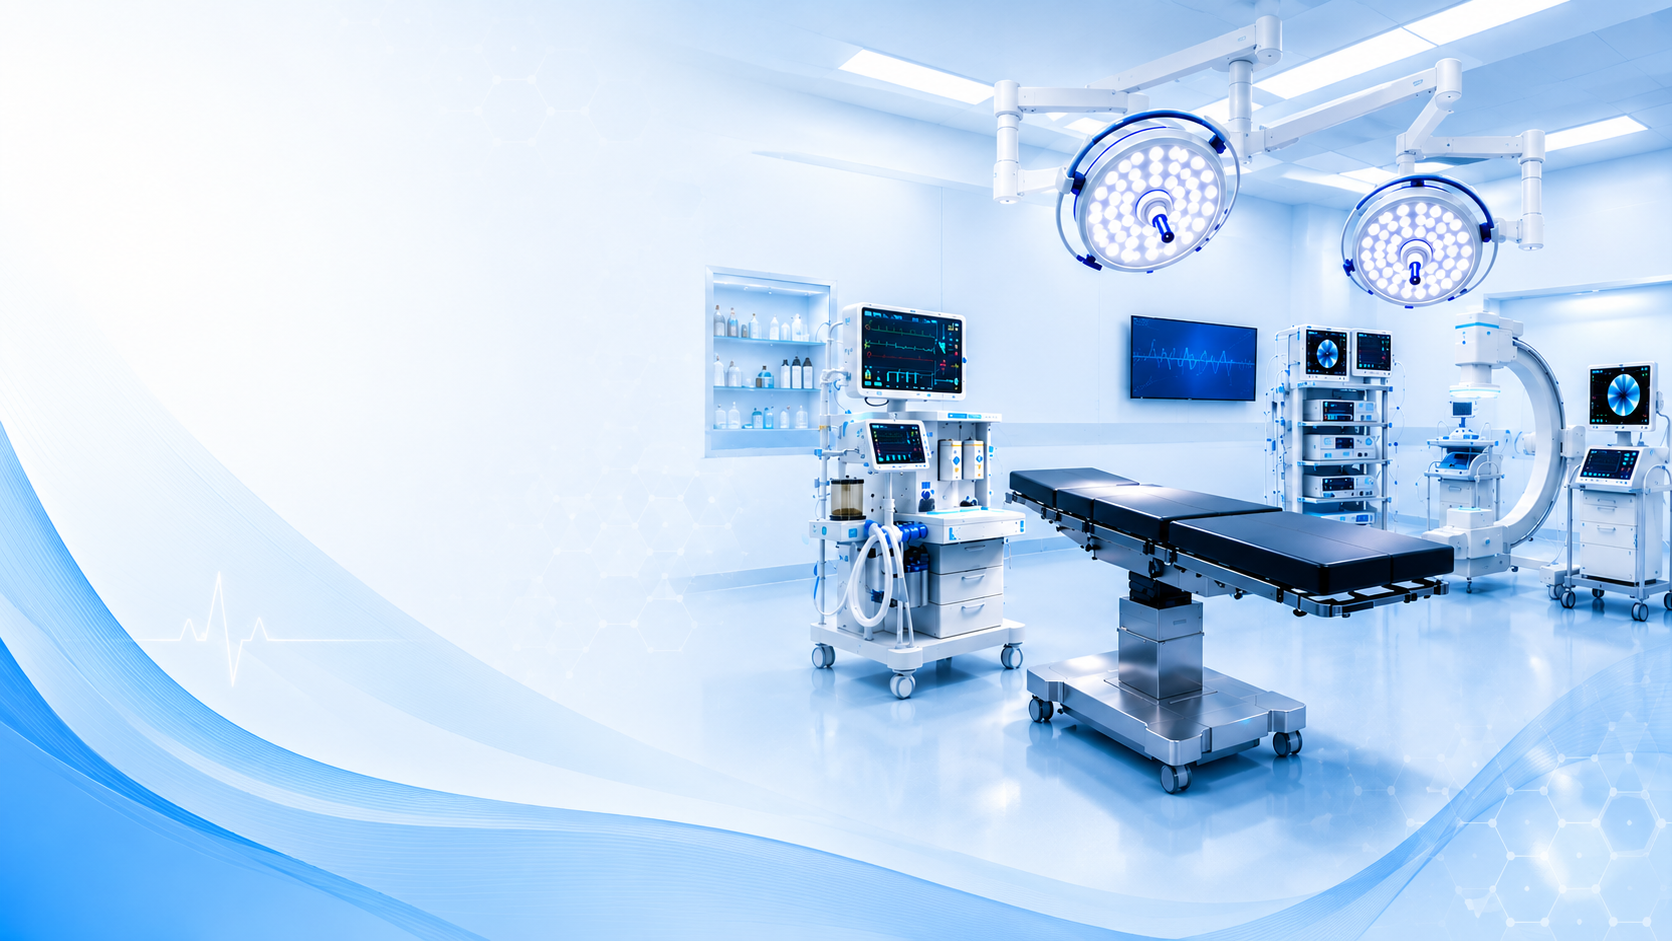
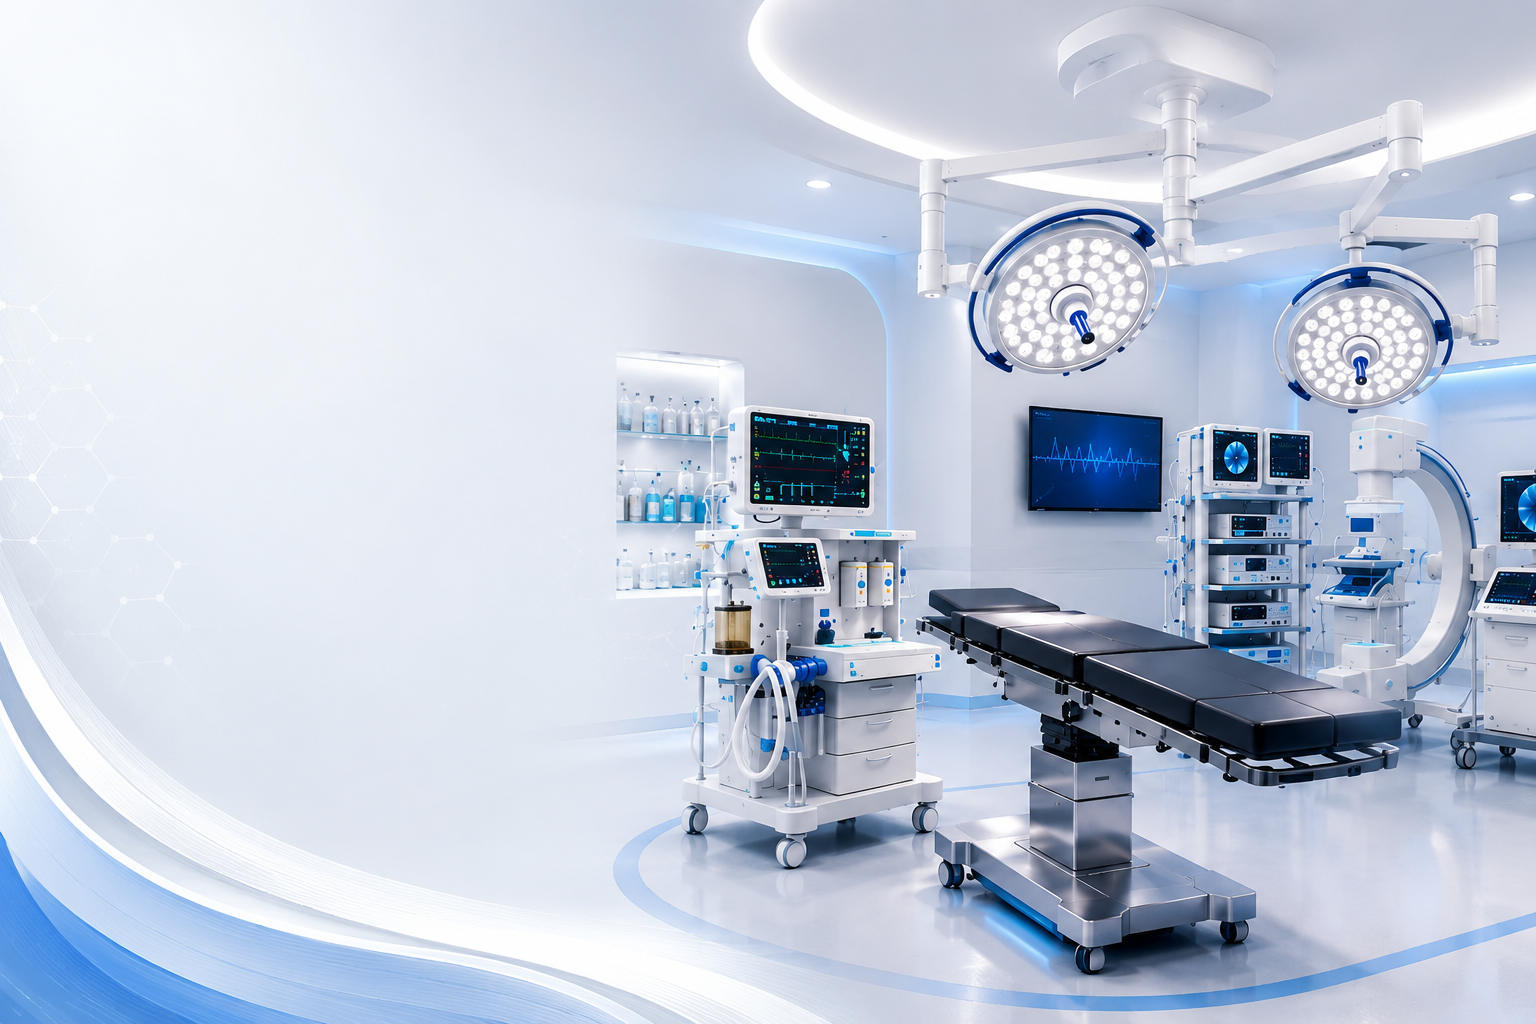
background image alignment in MB

diff --git a/src/components/HomeView.tsx b/src/components/HomeView.tsx
@@ -382,7 +382,7 @@ export default function HomeView({ onOpenProductModal, showPreloader = false }: 
             />
           </picture>
           {/* Light readability white gradient overlay (removed on desktop md/lg for crispness) */}
-          <div className="absolute inset-0 bg-white/45 md:bg-transparent pointer-events-none z-[5]" />
+          <div className="absolute inset-0 bg-transparent pointer-events-none z-[5]" />
         </motion.div>
 
         {/* Background Glows */}
@@ -393,15 +393,15 @@ export default function HomeView({ onOpenProductModal, showPreloader = false }: 
         <div className="max-w-7xl mx-auto px-4 sm:px-8 lg:px-10 xl:px-10 w-full z-20 relative flex flex-col justify-stretch h-full">
           <div className="grid grid-cols-1 md:grid-cols-12 gap-8 items-center h-full w-full">
             {/* Left Side (45% on desktop xl, 58% on tablet/medium desktop) */}
-            <div className="col-span-1 md:col-span-12 xl:col-span-5 flex flex-col justify-between md:justify-start h-auto text-center md:text-center xl:text-left text-slate-900 -translate-y-6 md:translate-y-0 lg:translate-x-0 lg:translate-y-0 xl:-translate-x-20 xl:-translate-y-8">
+            <div className="col-span-1 md:col-span-12 xl:col-span-5 flex flex-col justify-between md:justify-start h-full md:h-auto text-center md:text-center xl:text-left text-slate-900 translate-y-0 md:translate-y-0 lg:translate-x-0 lg:translate-y-0 xl:-translate-x-20 xl:-translate-y-8">
               <motion.div
                 initial="hidden"
                 animate={showPreloader ? "hidden" : "visible"}
                 variants={heroContainerVariants}
-                className="flex flex-col items-center md:items-center xl:items-start text-center md:text-center xl:text-left text-slate-900 justify-between md:justify-start h-auto w-full gap-y-[clamp(12px,2.5vw,20px)] md:gap-y-0"
+                className="flex flex-col items-center md:items-center xl:items-start text-center md:text-center xl:text-left text-slate-900 justify-between md:justify-start h-full md:h-auto w-full gap-y-[clamp(12px,2.5vw,20px)] md:gap-y-0"
               >
                 {/* Top Group: Text & Buttons */}
-                <div className="flex flex-col items-center md:items-center xl:items-start text-center md:text-center xl:text-left gap-y-[clamp(8px,1.8vw,16px)] md:gap-y-0 w-full mt-1 sm:mt-0 -translate-y-10 md:-translate-y-[120px] xl:translate-y-0">
+                <div className="flex flex-col items-center md:items-center xl:items-start text-center md:text-center xl:text-left gap-y-[clamp(8px,1.8vw,16px)] md:gap-y-0 w-full mt-1 sm:mt-0 -translate-y-4 md:-translate-y-[120px] xl:translate-y-0">
                   {/* Badge */}
                   <motion.div variants={heroItemVariants} className="w-full text-center md:text-center xl:text-left">
                     <span className="inline-block bg-gradient-to-r from-blue-600 via-sky-500 to-amber-500 text-white text-[clamp(9.5px,1vw+9px,12.5px)] md:text-[16px] lg:text-[18px] xl:text-[13px] font-black tracking-widest px-3.5 py-1.5 rounded-full uppercase shadow-lg shadow-blue-500/20 animate-pulse">
@@ -470,7 +470,7 @@ export default function HomeView({ onOpenProductModal, showPreloader = false }: 
                 {/* Statistics Cards */}
                 <motion.div
                   variants={heroItemVariants}
-                  className="grid grid-cols-2 md:grid-cols-4 gap-[clamp(8px,1.8vw,14px)] w-full md:mx-auto xl:mx-0 mt-[clamp(10px,2vw,16px)] md:mt-2 lg:mt-3 xl:mt-4 pt-2 xs:pt-3 sm:pt-4 justify-items-center translate-y-3 md:-translate-y-6 xl:-translate-y-4"
+                  className="grid grid-cols-2 md:grid-cols-4 gap-[clamp(8px,1.8vw,14px)] w-full md:mx-auto xl:mx-0 mt-[clamp(10px,2vw,16px)] md:mt-2 lg:mt-3 xl:mt-4 pt-2 xs:pt-3 sm:pt-4 justify-items-center translate-y-2 md:-translate-y-6 xl:-translate-y-4"
                 >
                   {[
                     { target: 16, suffix: "+", label: "Years Exp.", icon: Award, color: "text-blue-600", iconBg: "bg-blue-50", border: "border-blue-100/40 hover:border-orange-200/60", glow: "from-blue-500/5" },

diff --git a/src/index.css b/src/index.css
@@ -419,14 +419,18 @@
 }
 
 /* Mobile Hero Background Responsive Positioning (< 768px) */
+.mobile-hero-bg-img {
+  object-position: center 80% !important;
+}
+
 @media (max-width: 767.98px) {
   .mobile-hero-bg-img {
     object-fit: cover !important;
     background-size: cover !important;
     background-repeat: no-repeat !important;
-    /* Default for mobile is center bottom */
-    object-position: center bottom !important;
-    background-position: center bottom !important;
+    /* Zoom out feel by centering the medical equipment and lights */
+    object-position: center 45% !important;
+    background-position: center 45% !important;
   }
 }
 
@@ -438,12 +442,13 @@
 }
 
 @media (min-width: 768px) and (max-height: 720px) {
+
   /* Reduce top padding of the hero section */
   section {
     padding-top: 70px !important;
     padding-bottom: 8px !important;
   }
-  
+
   /* Reduce badge size */
   section .md\:col-span-12 span.inline-block {
     font-size: 10px !important;
@@ -458,13 +463,13 @@
     font-size: 1.65rem !important;
     margin-top: 6px !important;
   }
-  
+
   /* Reduce description size */
   section .md\:col-span-12 p {
     font-size: 12px !important;
     margin-top: 6px !important;
   }
-  
+
   /* Reduce button sizes and container margins */
   section .md\:col-span-12 button {
     height: 34px !important;
@@ -472,12 +477,13 @@
     padding-bottom: 4px !important;
     font-size: 9px !important;
   }
+
   section .md\:col-span-12 div.flex-row {
     margin-top: 6px !important;
   }
-  
+
   /* Reduce gap on Top Group container */
-  section .md\:col-span-12 > div > div {
+  section .md\:col-span-12>div>div {
     gap-y: 4px !important;
   }
 
@@ -486,35 +492,35 @@
     margin-top: 4px !important;
     gap: 6px !important;
   }
-  
+
   /* Reduce statistics cards dimensions */
-  section .md\:col-span-12 .grid > div {
+  section .md\:col-span-12 .grid>div {
     height: 86px !important;
     width: 130px !important;
     padding-top: 5px !important;
     padding-bottom: 5px !important;
     gap: 2px !important;
   }
-  
+
   /* Reduce icon container size in cards */
-  section .md\:col-span-12 .grid > div > div:first-child {
+  section .md\:col-span-12 .grid>div>div:first-child {
     width: 26px !important;
     height: 26px !important;
   }
-  
+
   /* Reduce icon size inside cards */
-  section .md\:col-span-12 .grid > div > div:first-child svg {
+  section .md\:col-span-12 .grid>div>div:first-child svg {
     width: 12px !important;
     height: 12px !important;
   }
-  
+
   /* Reduce counter number text size inside cards */
-  section .md\:col-span-12 .grid > div > p:nth-child(2) {
+  section .md\:col-span-12 .grid>div>p:nth-child(2) {
     font-size: 13px !important;
   }
-  
+
   /* Reduce label text size inside cards */
-  section .md\:col-span-12 .grid > div > p:last-child {
+  section .md\:col-span-12 .grid>div>p:last-child {
     font-size: 7.5px !important;
   }
 }
